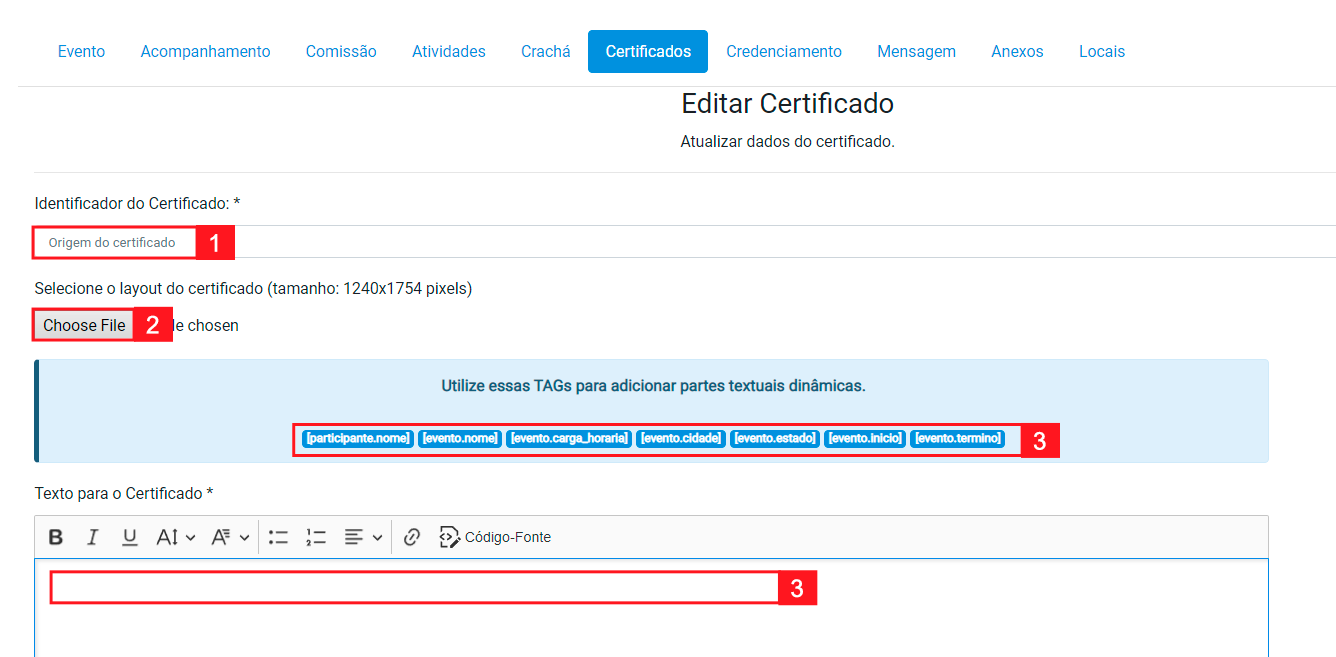
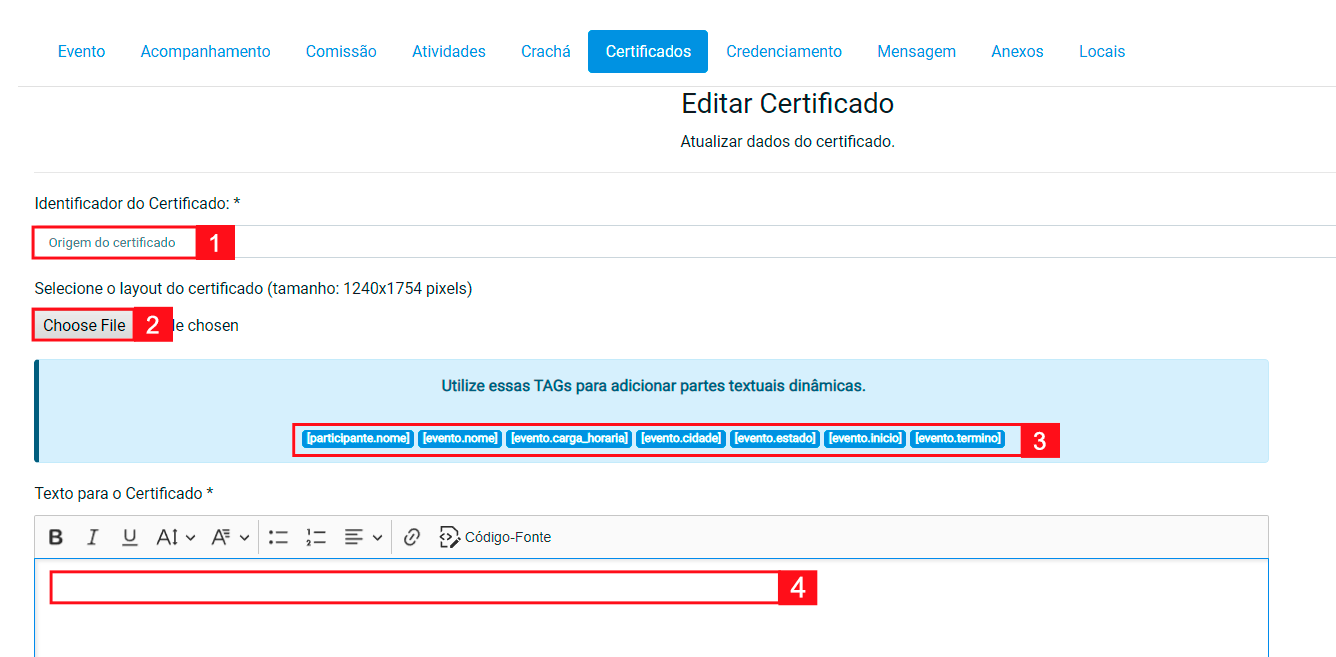
Adicionei e alterei textos de dois certificados

Changed region(s): [[0.5831, 0.8828, 0.6138, 0.9132], [0.1534, 0.4262, 0.1841, 0.4566]]

diff --git a/docs/certifi_part_ativ.md b/docs/certifi_part_ativ.md
@@ -3,8 +3,39 @@ id: certifi_part_ativ
 title: Participação Nas Atividades
 sidebar_label: Participação Nas Atividades
 ---
-Check the [documentation](https://docusaurus.io) for how to use Docusaurus.
+## Quando emitir um certificado de parcipação nas atividades
+A emissão do certificado de participação no sistema PHARUS deve ser feita após a conclusão das atividades cadastrados no sistema.
 
-## Lorem
+Assim que as atividades forem concluídas, o organizador do evento deve registrar no sistema a participação dos usuários que cumpriram as exigências necessárias para obter o certificado. O sistema PHARUS então irá gerar o certificado de participação com base nas informações registradas.
 
-Lorem ipsum dolor sit amet, consectetur adipiscing elit. Pellentesque elementum dignissim ultricies. Fusce rhoncus ipsum tempor eros aliquam consequat. Lorem ipsum dolor sit amet, consectetur adipiscing elit. Vivamus elementum massa eget nulla aliquet sagittis. Proin odio tortor, vulputate ut odio in, ultrices ultricies augue. Cras ornare ultrices lorem malesuada iaculis. Etiam sit amet libero tempor, pulvinar mauris sed, sollicitudin sapien.
+O participante poderá então acessar o sistema PHARUS para baixar e imprimir seu certificado de participação. Certifique-se de que todas as informações estejam corretas antes de emitir o certificado, já que ele será utilizado como comprovante de participação em eventos ou atividades.
+
+**Lembre-se:** a emissão do certificado de participação é uma etapa importante para reconhecer o esforço e dedicação do participante. Certifique-se de emitir o certificado o mais rápido possível após o término das atividades ou eventos, para que o participante possa utilizá-lo em suas atividades profissionais e acadêmicas.
+
+## Configuração do certificado de participação nas atividades
+
+1. Após acessar a [opção de emissão de certificados](/docs/visao_geral#acessando-opção-de-emissão-de-certificados). Selecione a opção "Participação nas atividade" na lista de opções de certificados disponíveis.
+
+![Participação nas atividades](/img/screenshots/pnativ.png "participação nas atividades")
+
+2. Na página de edição do certificado, você poderá atualizar as informações necessárias.
+    - **<font color="red">1</font> Identificador do Certificado:*** Insira o "Identificador do Certificado" para identificar o certificado que está sendo configurado.
+    - **<font color="red">2</font> Layoud do Certificado:** Clique em "choose file" e faça o upload do "Layoud do Certificado" desejado
+    - **<font color="red">3</font> TAGs disponiveis:** Para adicionar partes textuais dinâmicas ao certificado, utilize as seguintes TAGs:
+        - [participante.nome]: nome do participante
+        - [evento.nome]: nome do evento
+        - [evento.carga_horaria]: carga horária do evento
+        - [evento.cidade]: cidade do evento
+        - [evento.estado]: estado do evento
+        - [evento.inicio]: data de início do evento
+        - [evento.termino]: data de término do evento
+        - [atividade.nome]: nome da atividade
+        - [atividade.carga_horaria]: carga horária da atividade
+        - [atividade.tipo]: tipo de atividade
+    - **<font color="red">4</font> Texto para o certificado:** Preencha o texto que você deseja que esteja estampado no certificado. 
+        Exemplo de texto para o Certificado:
+
+        Certificado de Participação
+        O IFNMG confere a [participante.nome] o presente certificado de participação no evento [evento.nome], realizado na cidade de [evento.cidade], no estado de [evento.estado], no período de [evento.inicio] a [evento.termino]. Durante o evento, o participante cumpriu [evento.carga_horaria] horas de atividades, incluindo [atividade.nome], com carga horária de [atividade.carga_horaria] horas, na categoria [atividade.tipo].
+
+    ![Preencher dados Atividade](/img/screenshots/certificadoPartAtiv2.png "Preencher dados Atividade")

diff --git a/docs/certifi_part_ev.md b/docs/certifi_part_ev.md
@@ -3,9 +3,15 @@ id: certifi_part_ev
 title: Participação No Evento
 sidebar_label: Participação No Evento
 ---
-## Quando emitir um certificado de participação no evento?
+## Quando emitir um certificado de participação no evento
 
-O certificado de participação no evento pode ser usado como comprovante de participação em eventos acadêmicos, profissionais ou culturais.
+O certificado de participação é emitido para comprovar a participação do indivíduo em eventos acadêmicos, profissionais ou culturais. É importante emitir um certificado de participação sempre que o evento tiver importância acadêmica, profissional ou social para o participante.
+
+No sistema PHARUS do IFNMG, é possível emitir certificados de participação para eventos que foram previamente cadastrados no sistema, e nos quais o participante realizou atividades específicas, tais como palestras, workshops, minicursos e outras atividades.
+
+Portanto, é recomendável emitir um certificado de participação sempre que o participante tiver cumprido a carga horária mínima exigida para cada atividade, bem como para o evento como um todo.
+
+**Lembre-se:** A emissão do certificado é de responsabilidade do organizador do evento, e que o mesmo deve seguir as normas e diretrizes estabelecidas pelo IFNMG.
 
 
 ## Configuração do certificado de participação no evento
@@ -16,7 +22,14 @@ O certificado de participação no evento pode ser usado como comprovante de par
 2. Na página de edição do certificado, você poderá atualizar as informações necessárias.
     - **<font color="red">1</font> Identificador do Certificado:*** Insira o "Identificador do Certificado" para identificar o certificado que está sendo configurado.
     - **<font color="red">2</font> Layoud do Certificado:** Clique em "choose file" e faça o upload do "Layoud do Certificado" desejado
-    - **<font color="red">3</font> TAGs disponiveis:** Utilize as TAGs disponíveis para adicionar informações dinâmicas ao certificado. Por exemplo, para incluir o nome do participante, utilize a TAG [participante.nome], e assim por diante.
-    - **<font color="red">4</font> Texto para o certificado:** Preencha o texto que você deseja que esteja estampado no certificado. Exemplo: Parabéns! Certificamos que [participante.nome] participou do evento [evento.nome], realizado em [evento.cidade], [evento.estado], com carga horária de [evento.carga_horaria] horas, no período de [evento.inicio] a [evento.termino].
+    - **<font color="red">3</font> TAGs disponiveis:** Utilize as TAGs disponíveis para adicionar informações dinâmicas ao certificado. Utilize as seguintes TAGs:
+        - [participante.nome]: insere o nome do participante no certificado.
+        - [evento.nome]: insere o nome do evento no certificado.
+        - [evento.carga_horaria]: insere a carga horária do evento no certificado.
+        - [evento.cidade]: insere a cidade onde ocorreu o evento no certificado.
+        - [evento.estado]: insere o estado onde ocorreu o evento no certificado.
+        - [evento.inicio]: insere a data de início do evento no certificado.
+        - [evento.termino]: insere a data de término do evento no certificado.
+    - **<font color="red">4</font> Texto para o certificado:** Preencha o texto que você deseja que esteja estampado no certificado. Exemplo: Certificado de participação Certificamos que [participante.nome] participou do evento [evento.nome], realizado em [evento.cidade], [evento.estado], com carga horária de [evento.carga_horaria] horas, no período de [evento.inicio] a [evento.termino].
 
     ![Preencher dados Ev](/img/screenshots/certificadoEv1.png "Preencher dados Ev")
